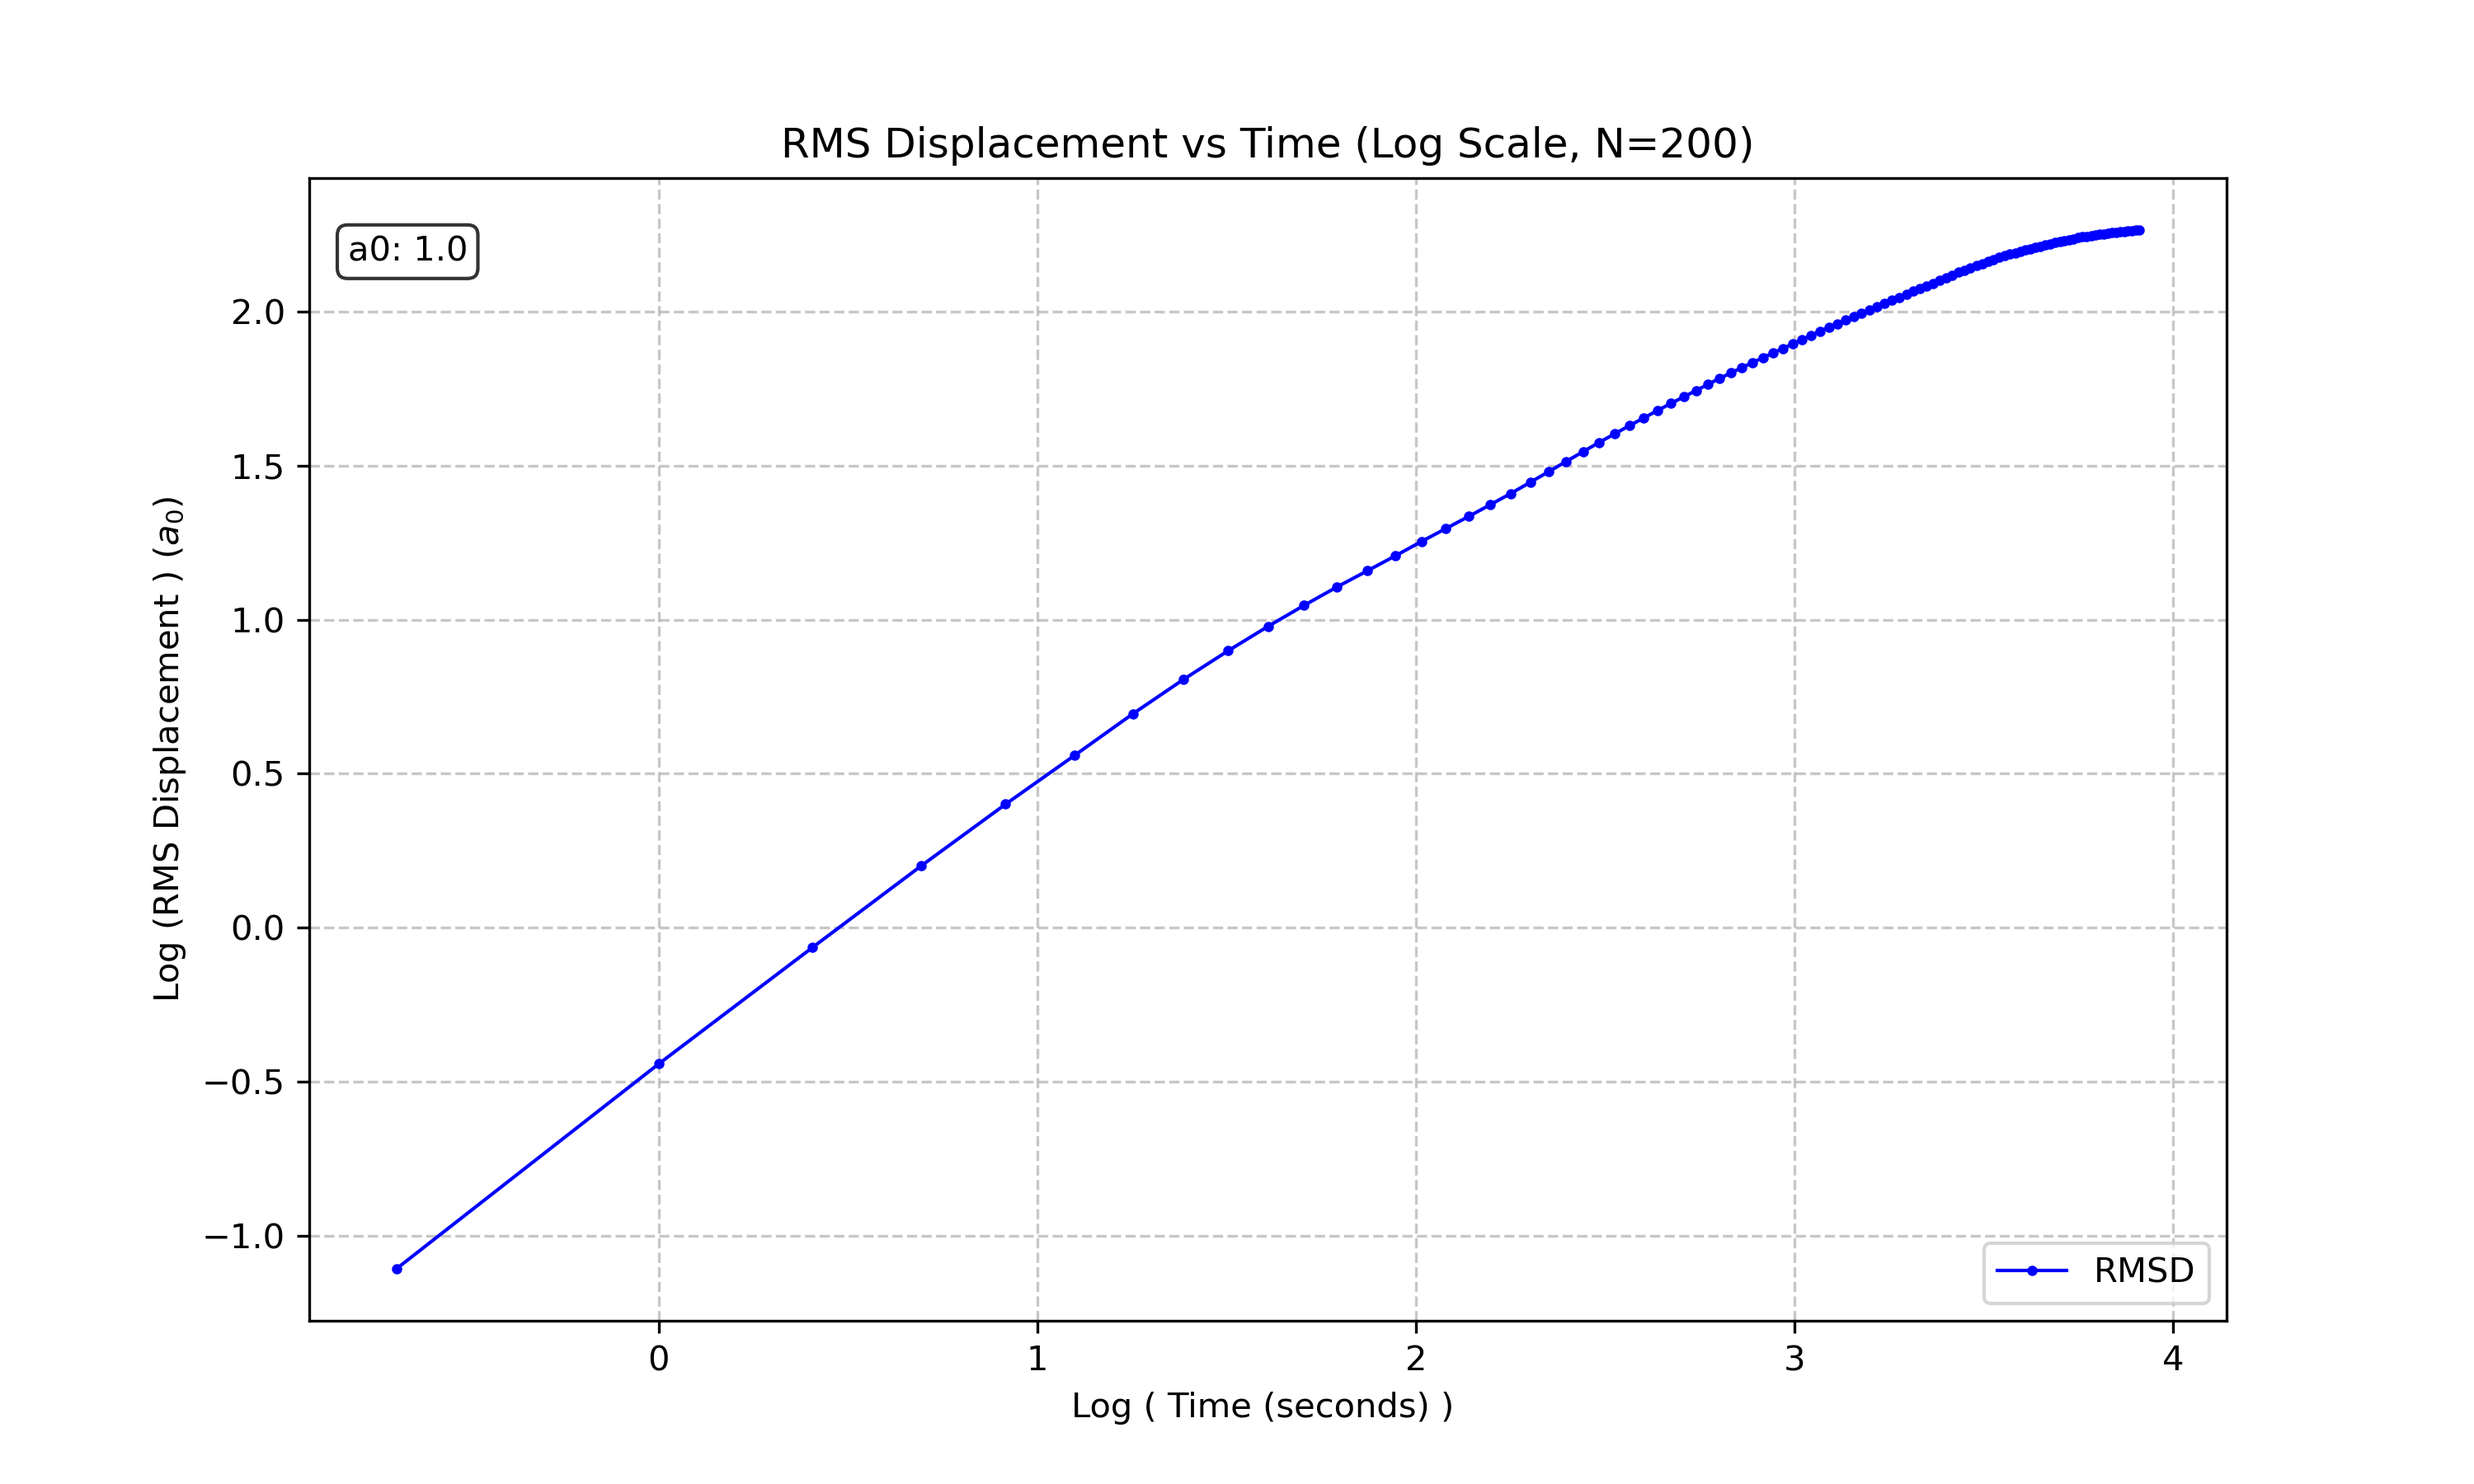
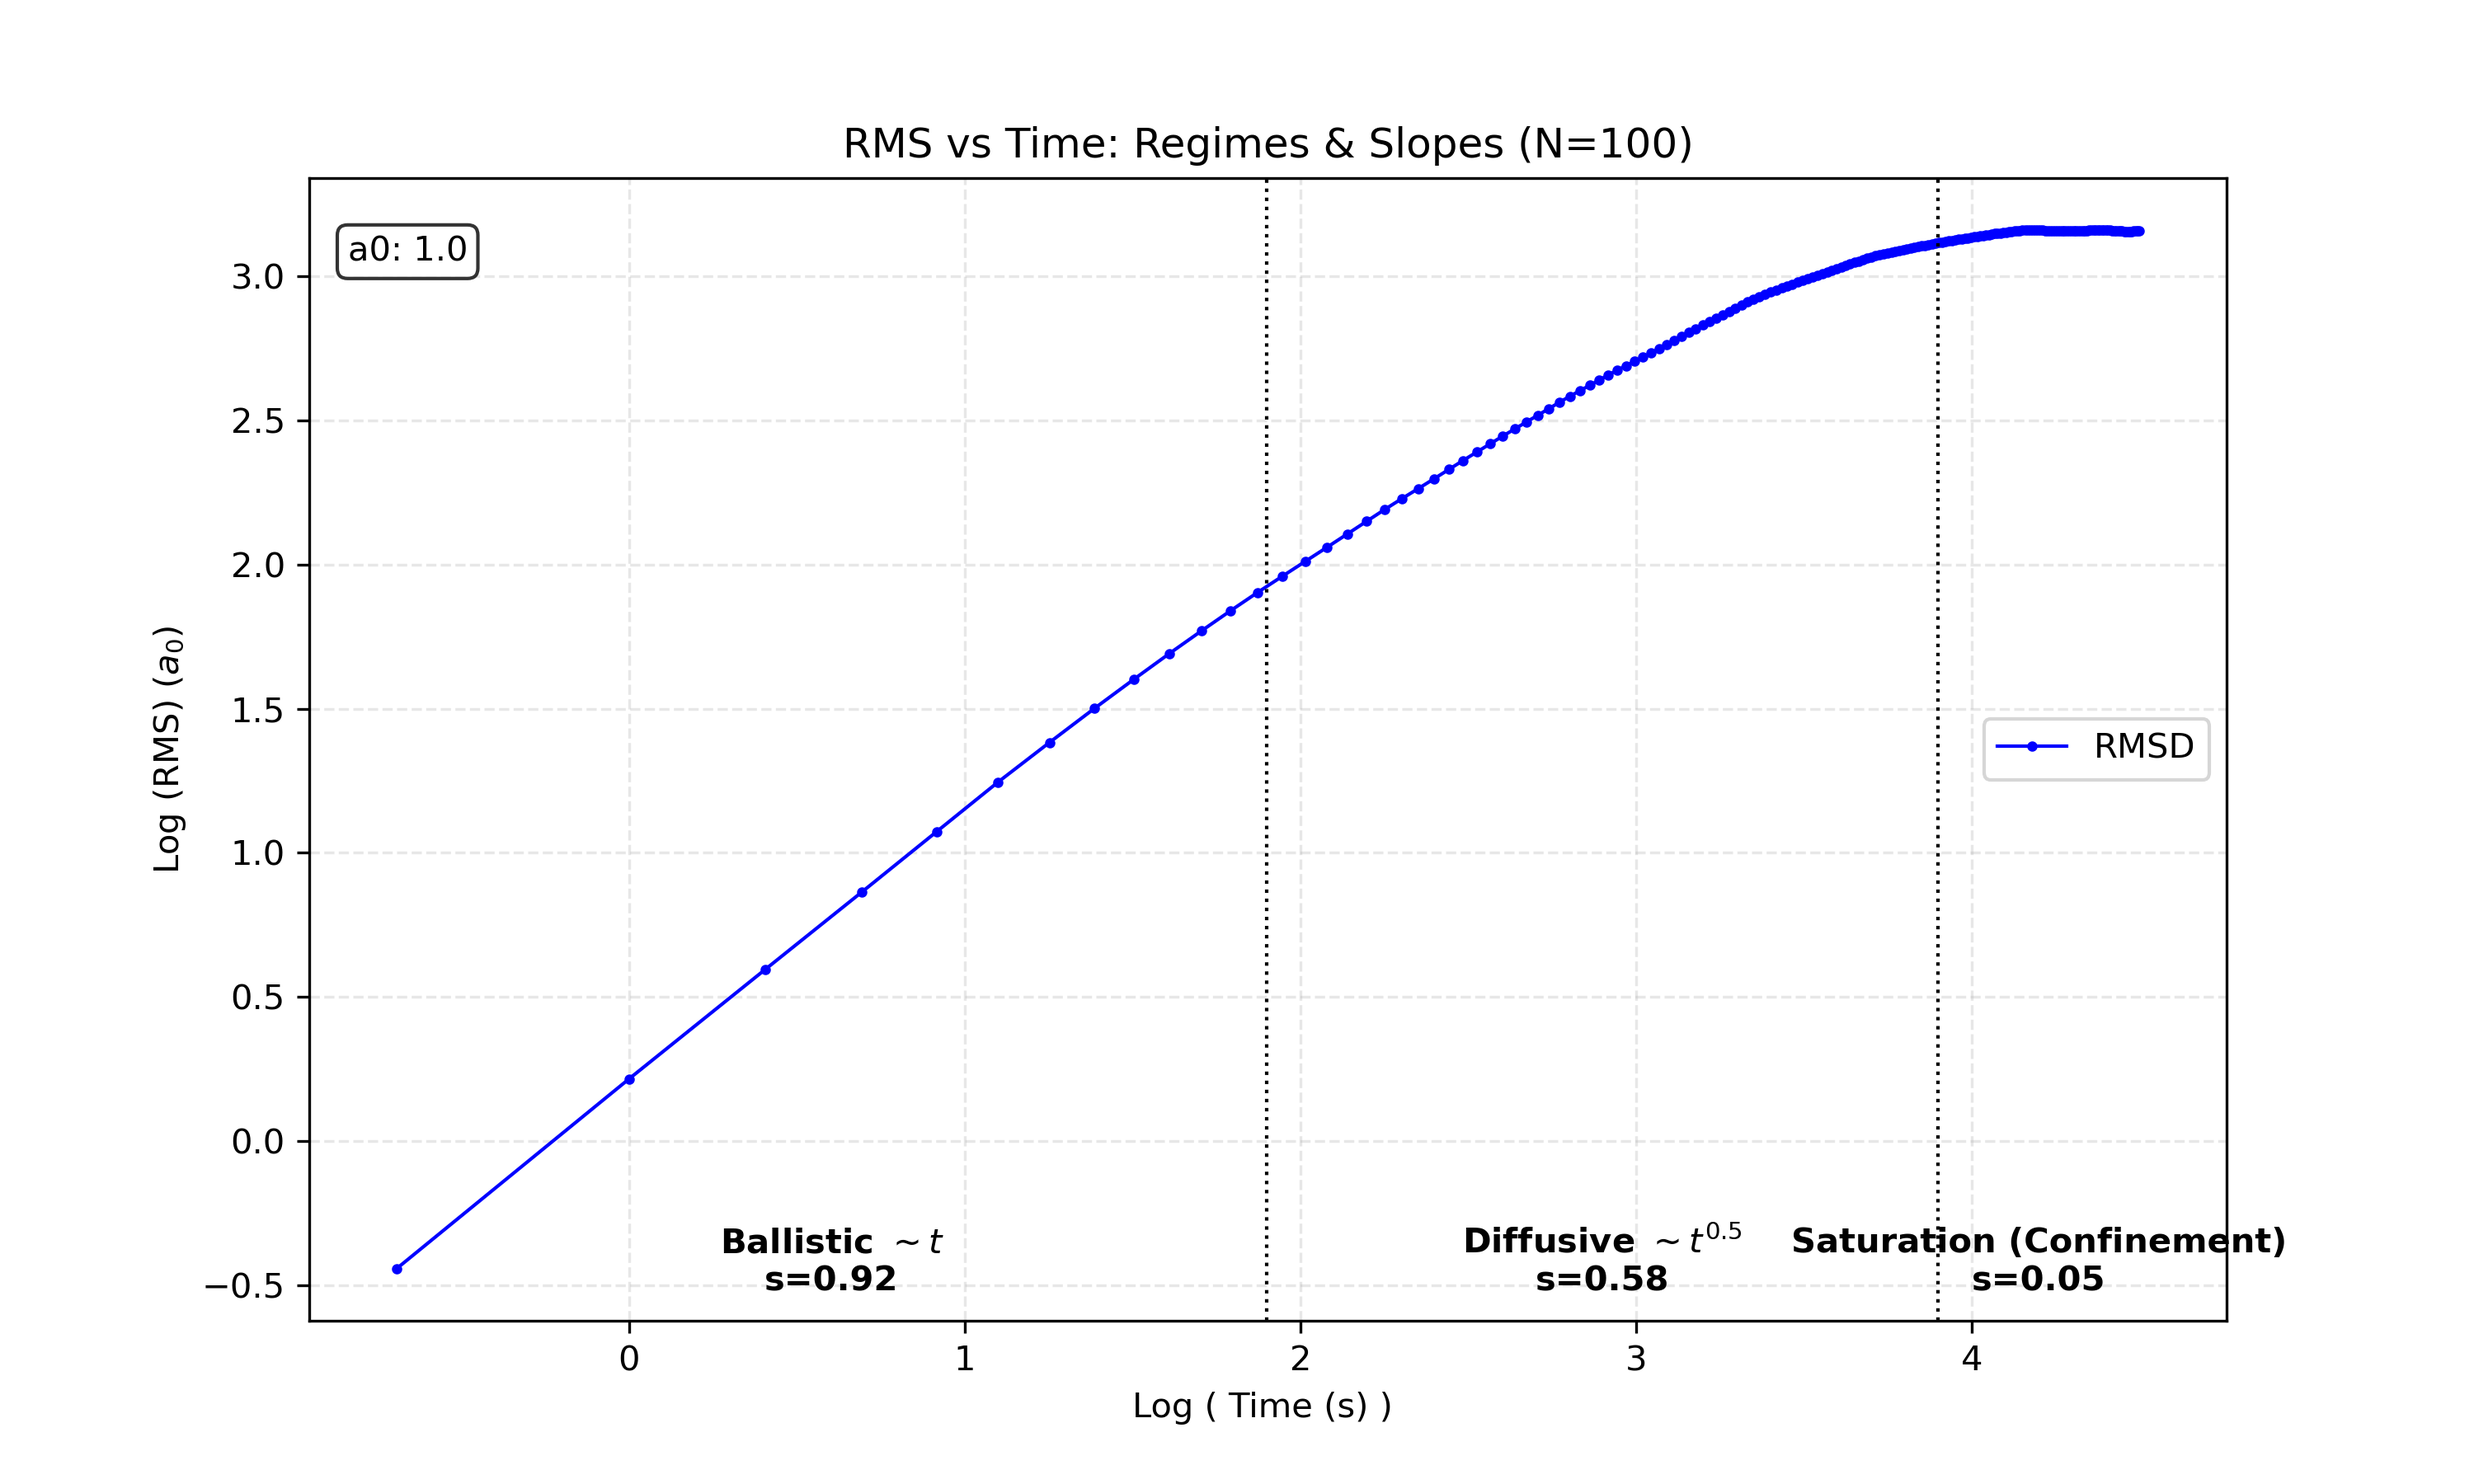
RMS Plot now shows tunable regime boundaries with slope

diff --git a/plot_rms_from_data.py b/plot_rms_from_data.py
@@ -8,7 +8,8 @@ import glob
 DATA_DIR = "COMdata"
 N_BEADS = 100 
 DT_FRAME = 0.5 
-OFFSET_TIME = 50.0 
+OFFSET_TIME = 10.0 
+LOG_BOUNDS = [1.9, 3.9] # Tunable regime boundaries
 
 def read_frame_file(filepath):
     swimmers = []
@@ -70,11 +71,26 @@ def main():
         return
 
     plt.figure(figsize=(10, 6))
-    plt.plot(np.log(times), np.log(rms_distances), 'b.-', linewidth=1, markersize=4, label='RMSD')
-    plt.xlabel('Log ( Time (seconds) ) ')
-    plt.ylabel('Log (RMS Displacement ) ($a_0$)')
-    plt.title(f'RMS Displacement vs Time (Log Scale, N={num_swimmers})')
-    plt.grid(True, linestyle='--', alpha=0.7)
+    lt, lr = np.log(times), np.log(rms_distances)
+    plt.plot(lt, lr, 'b.-', linewidth=1, markersize=4, label='RMSD')
+    
+    full_lb = [lt[0]] + LOG_BOUNDS + [lt[-1]]
+    for i in range(len(full_lb)-1):
+        lb0, lb1 = full_lb[i], full_lb[i+1]
+        mask = (lt >= lb0) & (lt <= lb1)
+        if np.sum(mask) < 2: continue
+        m, _ = np.polyfit(lt[mask], lr[mask], 1)
+        
+        if i < len(full_lb)-2: plt.axvline(full_lb[i+1], color='black', linestyle=':', linewidth=1)
+        
+        lbl = r"Ballistic $\sim t$" if m > 0.8 else r"Diffusive $\sim t^{0.5}$" if m > 0.4 else "Saturation (Confinement)" if m < 0.2 else "Sub-diffusive"
+        plt.text((lb0+lb1)/2, 0.02, f"{lbl}\ns={m:.2f}", transform=plt.gca().get_xaxis_transform(), 
+                 ha='center', va='bottom', fontsize=10, color='black', fontweight='bold')
+
+    plt.xlabel('Log ( Time (s) ) ')
+    plt.ylabel('Log (RMS) ($a_0$)')
+    plt.title(f'RMS vs Time: Regimes & Slopes (N={num_swimmers}, Beating Freq = to be edited by priyanshu)')
+    plt.grid(True, linestyle='--', alpha=0.3)
     plt.legend()
     plt.text(0.02, 0.95, f"a0: 1.0", transform=plt.gca().transAxes, 
              fontsize=10, verticalalignment='top', bbox=dict(boxstyle='round', facecolor='white', alpha=0.8))
